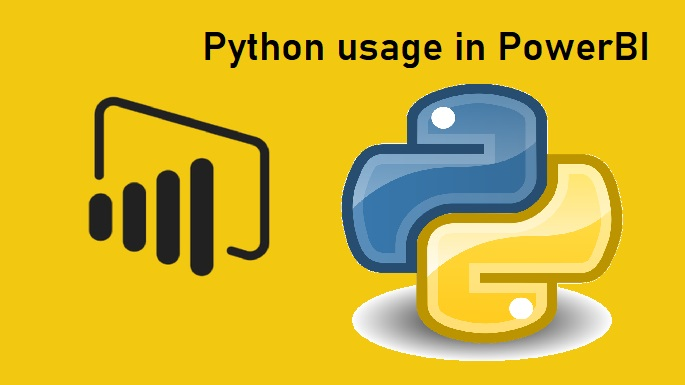
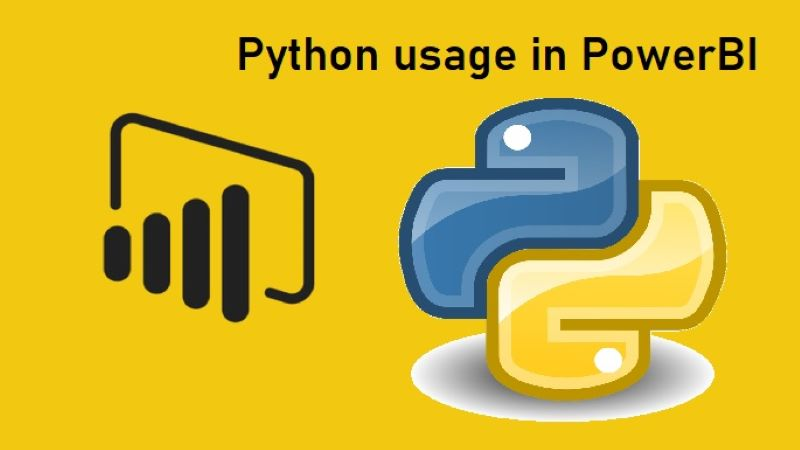
Resize img

diff --git a/_layouts/home.html b/_layouts/home.html
@@ -22,7 +22,7 @@ layout: page
 </div>
 <div>
     <a href="{{ post.url | relative_url }}">
-        <img class="center-image" height="450" width="800" src="{{ post.image | prepend: site.baseurl }}" alt="{{ post.title }}" title="{{ post.title }}">
+        <img class="center-image" src="{{ post.image | prepend: site.baseurl }}" alt="{{ post.title }}" title="{{ post.title }}">
     </a>
 </div>
 <div class="post-descr">
